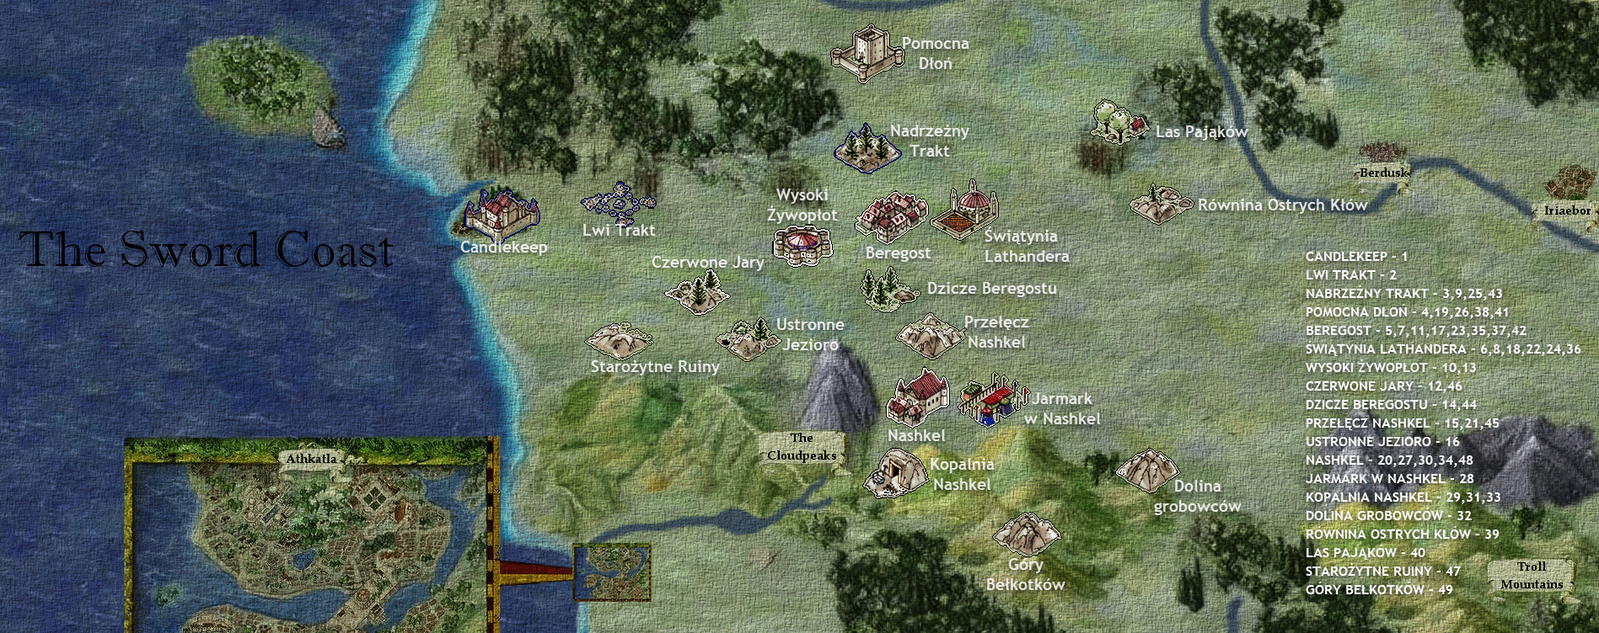
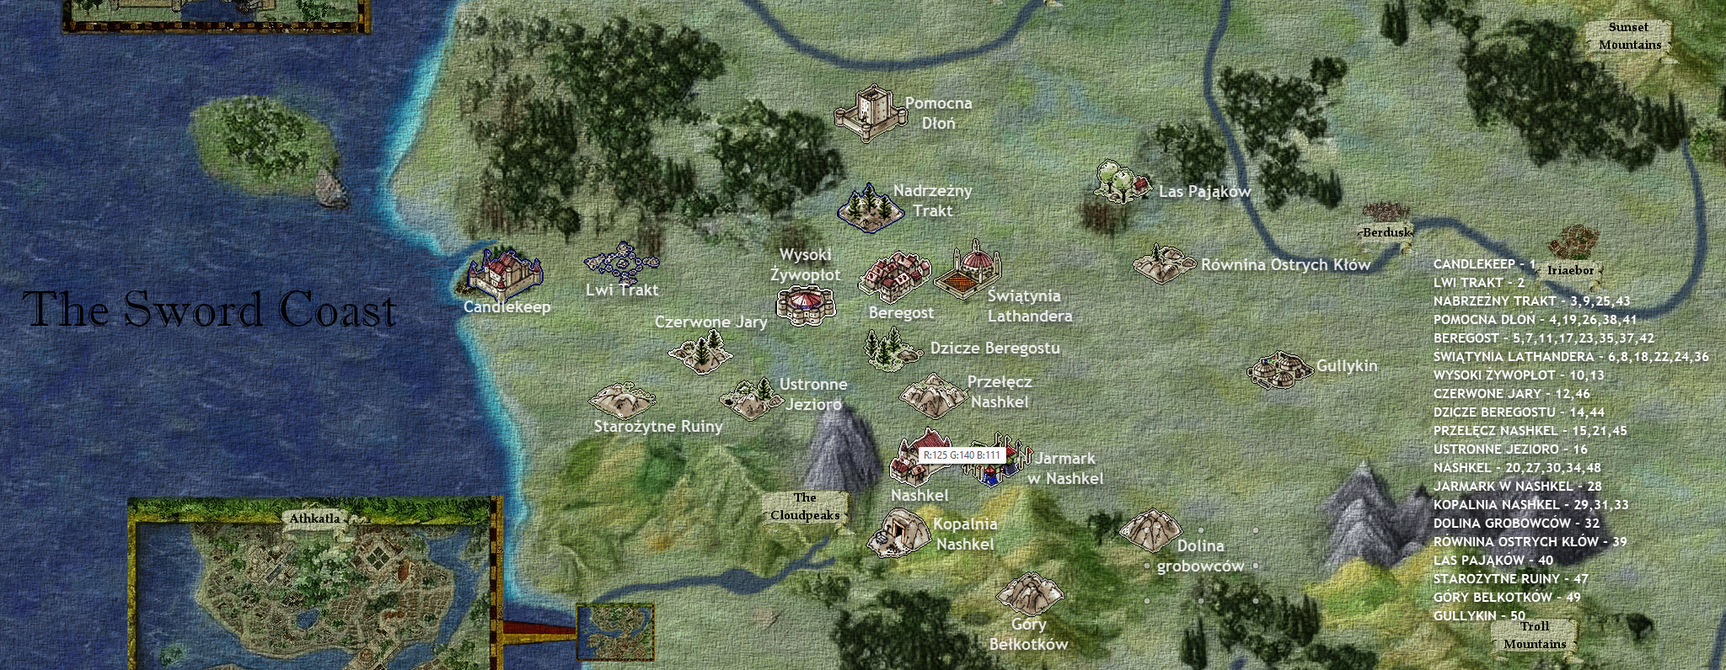
new file:   docs/images/cvorca.webp 	new file:   docs/images/dream3.webp 	new file:   docs/images/inoshishi1.webp 	new file:   docs/images/kryll.webp 	new file:   docs/maps/BG4000.webp 	modified:   docs/maps/BG5500.webp 	modified:   docs/maps/worldmap.webp 	modified:   docs/other/maps.md 	modified: 
Changes not staged for commit:
	modified:   docs/maps/BG4000.webp
	modified:   docs/maps/worldmap.webp
	modified:   docs/other/maps.md
	modified:   docs/other/npc.md
	modified:   docs/other/sklepy.md
	modified:   docs/other/zadania.md
	modified:   docs/storyline/chapter1-5.md
	modified:   docs/storyline/chapter3-3.md

diff --git a/docs/storyline/chapter3-3.md b/docs/storyline/chapter3-3.md
@@ -4,6 +4,136 @@
 
 ![Góry Bełkotków](../maps/BG5500.webp){ .center-img width="40%" }
 
+Hugnot (1) na widok przybyszów zaczął krzyczeć o orkach, lecz szybko dostrzegł pomyłkę i poprosił o ochronę. Imoen ponagliła go, by zamiast stać z otwartymi ustami, opowiedział, co widział. Przez okolicę przemknęło trzydziestu lub więcej orków, wyraźnie w pośpiechu. Na pytanie Sandrah o ludzkiego jeńca Hugnot wspomniał o wielkim worku, rozmiarami przypominającym człowieka. Nie wiedział jednak, co znajdowało się w środku — uciekł, nie mając ani okazji, ani ochoty zaglądać.
+
+Orkowie ruszyli na północny wschód, ku wiosce niziołków Gullykin. Przy takim tempie mogli dotrzeć tam jeszcze przed świtem. Sandrah zauważyła, że droga ta nie prowadziła do Lasu Otulisko, lecz Hugnot był pewien kierunku. Na rozwidleniu napastnicy zatrzymali się, krzyczeli i kłócili tak zaciekle, że niemal liczył, iż pozabijają się nawzajem. Ostatecznie wybrali jednak inną drogę. Leech uznał, że bez kogoś, kto pokierowałby nimi z odrobiną rozsądku, mogli zwyczajnie pomylić szlak. Pozostawało pytanie, czego szukali w osadzie niziołków. (The Kidnapping of Henning 91)
+
+Dorn uznał, że nieumarli rzadko powstawali bez cudzej pomocy, a wszystko wokół zdradzało rękę Kryll. Ostrzegł Leecha, że czaiła się gdzieś w pobliżu. Od miesięcy myślał niemal wyłącznie o zemście na dawnych zdrajcach, a nowe moce tylko podsycały tę żądzę. Zapytany o ich źródło przyznał, że zawarł układ i przyjął pewne warunki. Na tym jednak zakończył wyjaśnienia.
+
+Kryll zastali w otoczeniu uwiedzionych mężczyzn (2). Dorn wypomniał jej, że niegdyś uważał ją za jedyną osobę, która potrafiła spojrzeć poza jego półorczą krew. Teraz widział, jak bardzo się pomylił. Wspomniał też o Senjaku, którym już się zajął. Kryll odparła, że ktoś musiał wziąć na siebie winę, aby odwrócić podejrzenia od reszty, a wybór padł na niego za sprawą Simmeona. Próbowała zbyć zemstę jako małostkowość, lecz Dorn nie zamierzał wybaczyć pozostawienia go na śmierć w Luskan. Kryll zamieniła otaczających ją mężczyzn w szkielety i posłała je przeciw drużynie. Nie ocaliły swojej pani.
+
+Po śmierci Kryll przy jej ciele znaleźli list od Simmeona. Nadawca przepraszał za gwałtowne zachowanie podczas ostatniego rozstania i ostrzegał, że Dorn uciekł z więzienia w Luskan, po czym zaczął zabijać dawnych kompanów. Zapewniał, że zdobył potężnego sprzymierzeńca, i zapraszał adresatów do ukrytego obozu tuż przed wejściem do Wrót Baldura. Liczył, że wspólnie łatwiej stawią czoło mścicielowi, który właśnie przeczesywał wybrzeże.
+
+Dorn zażądał listu, a poznawszy kryjówkę Simmeona, natychmiast chciał ruszać w drogę. Leech przypomniał, że ostrzeżony przeciwnik mógł przygotować pułapkę, lecz półork nie zamierzał zwalniać. Wierzył, że wymknie się każdej zasadzce i pokona każdą przeszkodę. Ufał własnej sile bardziej niż słowom zabitych zdrajców, choć przeczuwał, że wzmianka o potężnym sprzymierzeńcu była prawdziwa. Leech zauważył, że ostrożność najwyraźniej przestała mu towarzyszyć, i zaproponował dalszą podróż. Simmeon nie miał im uciec. (Dorn Il-Khan A Blackguard's Revennge 92). Powinni także odwiedzić Taris i poinformować ją co się stało z jej głupim mężem.
+
+![](../images/kryll.webp){ .center-img width="50%" }
+
+W kotlinie odnajdujemy Deneb (3). Deneb otaczały węże, które strzegły jej niczym wierne dzieci. Na widok drużyny zapowiedziała im kolejną ucztę, uznając przybyszów za złodziei. Leech zapytał, czy poprzedni intruzi również szukali Kerykeionu, lecz zamiast odpowiedzi usłyszał oskarżenia i wzmiankę o łotrzykach tańczących w świetle księżyca. Deneb chełpiła się, że kolejna marionetka padła ofiarą jej mocy. Gdy gnom zapytał o wspomniane węże, odróżniając je od bełkotków, Deneb oznajmiła, że ona i jej podopieczni stanowili jedno, a wraz z nadejściem ciemności znów powstawali. Leech uznał, że nie sposób przemówić jej do rozsądku. Czarodziejka zagroziła, że ani ucieczka, ani walka nie zmienią losu przybyszów — jej węże miały pożywić się ich zwłokami. Przywołała „Mroczną Siostrę”, prosząc o siłę. (Sorceress of Shadows 43). BAldwim bedzie rad z odzyskanego artefaktu.
+
+Lena (4) błagała nas o pomoc jej nieprzytomnemu przyjacielowi Samuelowi. Chce, żebyśmy zabrali go do Gellany w Pomocnej Dłoni. Niosąc go zostaliśmy napadnięci przez dezerterów (5), twierdzących, że ich zdradził (Samuel and Lena 94)(Lena zatrzymała Leecha i poprosiła o pomoc. Od ponad tygodnia błąkała się po dziczy, szukając kogoś, kto zdołałby uratować jej ciężko rannego przyjaciela. Samuel leżał nieopodal, a jego stan był tak poważny, że nawet Finch nie potrafiła mu pomóc. Jedyną nadzieją pozostawała Gellana Mirrorshade ze Świątyni Mądrości w Pomocnej Dłoni. Lena poprosiła, by drużyna ostrożnie podniosła Samuela i bez zwłoki zaniosła go do kapłanki. Leech zgodził się pomóc, a wdzięczna kobieta raz jeszcze przestrzegła, że rannemu pozostało niewiele czasu.)
+
+Samuel odzyskał na chwilę przytomność i wyjawił, że Angelo Dosan z płomiennej Pięści zaprzedał się Żelaznemu Tronowi (Zgiełk walki przywrócił Samuelowi świadomość. Sandrah natychmiast rzuciła proste zaklęcie, by choć trochę złagodzić ból rannego. Gdy odzyskał głos, zapytał o Lenę i miejsce, do którego trafili. Kapłanka zapewniła go, że Lena była bezpieczna, a drużyna zamierzała jak najszybciej dostarczyć go do Świątyni Mądrości. Samuel ostrzegł jednak, że nic nie będzie dobrze, dopóki okolicą rządziła Płonąca Pięść. Sandrah nakazała mu zachować spokój, by rany ponownie się nie otworzyły. Finch zaproponowała rzucenie kolejnego zaklęcia, żartując, że podczas długiej drogi chory mógłby zaczepiać każdego napotkanego bandytę. Kapłanka wyjaśniła, że w warunkach polowych zrobiła już wszystko, co było możliwe. Samuel potrzebował świątyni, odpoczynku i odpowiedniej opieki. Zanim opadł z sił, zdążył przestrzec drużynę przed Płonącą Pięścią. Twierdził, że formacja przestała strzec prawa i porządku, odkąd Angelo Dosan oddał ją na służbę Żelaznemu Tronowi. Sandrah powstrzymała go przed dalszym mówieniem i zesłała na niego sen. Ostatnie słowa Samuela były kolejnym ostrzeżeniem przed zdrajcami).
+
+Przy samotnym szczycie (6) zatrzymał drużynę Hafiz, prosząc o chwilę rozmowy w niezwykle ważnej sprawie. Gdy odzyskał oddech, przedstawił się jako Hafiz bin Watat, astrolog, uczony i mag. Usłyszawszy imię Leecha, natychmiast je rozpoznał. Twarz młodego gnoma wielokrotnie pojawiała się w jego snach, zawsze pośród krwi i śmierci. Nad Leechiem pochylał się złowrogi człowiek, a ich losy nieuchronnie splatały się ze śmiercią jednego z nich. Leech wyjaśnił, że wychował się w Candlekeep u boku Goriona, lecz po ucieczce z twierdzy jego przybrany ojciec został zamordowany. Od tamtej pory ktoś nieustannie próbował również pozbawić życia młodego gnoma. Hafiz przeprosił za przywołanie bolesnych wspomnień. Pragnął jednak pomóc, a zarazem uwolnić się od nękających go wizji. Astrolog przekazał Leechowi zwój ochronny. Polecił użyć go podczas starcia z ośmioma sługami zabójcy Goriona, aby osłonić drużynę przed ich gniewem. Finch z uznaniem przyjęła ten bezinteresowny dar. Nie wszyscy czyhali na życie Leecha. Gdzieś po jego stronie stali również życzliwi sprzymierzeńcy.
+
+W trakcie podróży Jen’lig zapytała Sandrah, czy jest g’lathk. Kapłanka nie znała tego określenia, więc githyanki wyjaśniła, że g’lathk zajmowali się uzdrawianiem mieszkańców Tu’narath. W głębi miasta pielęgnowali hydroponiczne ogrody, a rannych zabierali do komnat wyposażonych w regeneracyjne kapsuły, które przyspieszały naturalne gojenie. Sandrah odparła, że dzięki Splotowi nie potrzebowała bogów, by czerpać ze źródła magii, choć tam, gdzie mogła, sama również korzystała z naturalnych metod leczenia. Chętnie dowiedziałaby się więcej o technikach stosowanych przez g’lathk. Jen’lig przyznała, że nie potrafiła dokładnie wyjaśnić swojej roli, lecz uważała się za pewien szczególny rodzaj g’lathk. Sandrah nazwała ją strażniczką i łowczynią złodziei. Githyanki uznała to określenie za trafne, zaznaczyła jednak, że dzieci Gith nigdy nie były złodziejami. Ściganie własnych wrogów na ich sposób pozostawało dla niej czymś zupełnie nowym.
+
+
+Kawałek dalej (7) drogę zagrodził im kolejny najemnik Płonącej Pięści, żądając, by natychmiast się przedstawili. Sandrah oznajmiła, że byli jedynie wędrowcami. Strażnik ostrzegł ich przed bandytami grasującymi w okolicy, po czym wyjawił, że poszukiwał dezertera imieniem Samuel. Zbieg miał podróżować z kobietą, a za jego schwytanie wyznaczono nagrodę w wysokości pięćdziesięciu sztuk złota.
+Najemnik zdążył już odejść, gdy nagle zainteresował się niesionym przez drużynę rannym. Sandrah zachowała zimną krew i odparła, że był to jeden z ich towarzyszy, który ucierpiał podczas drogi. Wyjaśnienie wystarczyło. Członek Płonącej Pięści pożegnał wędrowców i ruszył dalej, nieświadomy, że poszukiwany Samuel znajdował się tuż przed nim.
+
+Stan Samuela nie był krytyczny i uznaliśmy, że musimy sprawdzić trop w Gullykin.
+
+Bestiariusz: niedźwiedziożuk, szkielet, dzik, bełkotek, wąż, niedźwiedź jaskiniowy, straszny wilk, straszliwy wilk
+
+## Gullykin&nbsp;<span class="cb">50</span> { .divider }
+
+![Gullykin](../maps/BG4000.webp){ .center-img width="40%" }
+
+W Gullykin przywitał ich Gandolar Luckyfoot (1), który z miejsca zapytał, czy zmierzali ku Wieży Durlaga, czy może już z niej wracali i potrzebowali opatrzenia złamań oraz siniaków. Jak zauważył, wielu poszukiwaczy przygód docierało do osady ledwie żywych.
+
+Leech zapytał o dużą grupę orków, która mogła niedawno przechodzić przez okolicę. Gandolar udał, że nie rozumie pytania, lecz Imoen szybko straciła cierpliwość do jego gry. Niziołek przyznał w końcu, że orkowie zwykle nie zapuszczali się w te strony. Imoen uznała więc, że dalsza rozmowa była stratą czasu, zwłaszcza gdy Henning wciąż czekał na ratunek. Gandolar zdążył jednak wspomnieć o osobliwych odgłosach dobiegających jakiś czas temu z sadów owocowych na południe od wioski. Jego przyjaciel Telben miał udać się tam na zwiad. To wystarczyło Imoen. Ponagliła Leecha, by przestał stać z otwartymi ustami, i poprowadziła drużynę ku sadom.
+
+Szukając ogrodnika spotykamy małą grupkę koboldów (2) a przy nich pierścień o dziwnej mocy.
+
+Dalej znajdujemy wołąjącego o pomoc niziołka (3). Po odzyskaniu sił Telben Beeswaxer wyjaśnił, że natknął się na ogromną hordę orków, gdy szukał uli pośród drzew. Napastnicy początkowo go nie zauważyli, zajęci kłótnią o jeńca. Na wzmiankę o pojmanym Imoen natychmiast domyśliła się, że chodziło o Henninga. Telben potwierdził, że kupiec żył i mimo trudnego położenia nie tracił ducha. Podczas gdy część orków chciała go zabić i zagarnąć łupy ukryte w pobliskiej jaskini, pozostali obawiali się człowieka imieniem Devern. Zamierzali dostarczyć mu zakładnika, zgodnie z otrzymanym rozkazem. Sandrah uznała to nazwisko za kolejny ślad w rozrastającym się spisku. Kłótnia orków zakończyła się dla Telbena boleśnie. Kilku napastników oparło się o drzewo, na którym się ukrywał, strącając go wprost pod swoje stopy. Z ich wrzasków wywnioskował, że zgubili drogę do Lasu Otulisko i przypadkiem trafili w okolice Gullykin. Wiedzieli o tajnej kwaterze ukrytej w jednej z pobliskich jaskiń, gdzie część z nich chciała schronić się z łupami. Obawiali się również oddziału prowadzonego przez gnoma i jego towarzyszy. Telben nie miał wątpliwości, że mówili o Leechu. Orkowie próbowali zmusić niziołka do wskazania drogi do Lasu Otulisko. Gdy nawet tortury nie przyniosły odpowiedzi, związali go i porzucili obok Henninga. Kupiec wykorzystał chwilę, by opowiedzieć o swoim porwaniu. Był przekonany, że Imoen ruszy jego tropem. Na dowód, że żył i nie zamierzał się poddać, zsunął z palca pierścień i poprosił Telbena o przekazanie go drużynie. Ostatecznie dwaj orkowi przywódcy podzielili hordę. Większa grupa zabrała Henninga i ruszyła na północ, gdzie miała spotkać się z Tazokiem oraz zdobyć informacje o drodze do Lasu Otulisko. Mniejszy oddział powędrował na wschód, ku jaskini skrywającej łupy. Ponieważ ani droga do lasu, ani rola Deverna nie były jeszcze znane, drużyna postanowiła najpierw odwiedzić kryjówkę orków i siłą wydobyć z nich kolejne odpowiedzi. Telben zaznaczył położenie jaskiń na mapie i poprosił, by przekazać napastnikom jego najserdeczniejsze pozdrowienia podczas przesłuchania.
+
+Spotykamy kolejnych łowców głów (4). Tym razem Molkar, Drakar, Morvin i Halacan nie przywitają kolejnego poranka.
+
+Znajdujemy jaskinię w której skrył się oddział orków (5). W środku silna grupa orków wszelkiej maści, zwłaszcza magów przywołujących żywiołaki ziemi i powietrzne sługi. Wybijamy wszystkie i natykamy się na Rellruka. Rellruk spodziewał się, że Rudowłosa w końcu go odnajdzie. Imoen nie kryła satysfakcji, że przy okazji mogła rozprawić się z orkowym hersztem, lecz najpierw zażądała informacji o Henningu. Ork wyjawił, że jego zwierzchnik, Knowlod, zatrzymał jeńca i zamierzał dostarczyć go Davaeornowi. Imoen zagroziła Rellrukowi powolną i bolesną śmiercią, lecz Leech powstrzymał ją przed zbyt pochopnym zabiciem więźnia. Zamierzał wydobyć z orka wszystko, co wiedział o Davaeornie, i dopiero później rozstrzygnąć jego los. Rellruk nie uląkł się gróźb. Twierdził, że znosił tortury przez całe życie i nawet gdyby znał drogę do Davaeorna, wolałby umrzeć, niż ją zdradzić. Sandrah zauważyła jednak, że skoro orkowie mieli dostarczyć jeńca Davaeornowi, musieli wiedzieć, gdzie go szukać. Rellruk przyznał, że Knowlod zamierzał odnaleźć kopalnię w Lesie Otulisko bez pomocy Tazoka, choć tylko Tazok znał prowadzącą do niej drogę. Chciwy Knowlod nie chciał dzielić się z nim nagrodą. Drużyna poznała więc kolejne ogniwo spisku, lecz łańcuch prowadzący ku jego prawdziwym mocodawcom zdawał się nie mieć końca. Rellruk chełpił się, że jedynie on wiedział, gdzie znaleźć Tazoka. Imoen szybko pozbawiła go tej ostatniej przewagi, przypominając, że droga do obozu bandytów była im już znana. Sandrah dostrzegła słabość całej organizacji. Każdy znał tylko bezpośredniego przełożonego, co utrudniało zdradę, lecz pozwalało drużynie rozbijać spisek ogniwo po ogniwie. Wróg mógł długo nie reagować na ich działania, a kiedy wreszcie odkryje, jak daleko zaszli, zabraknie mu już solidnego oparcia. Imoen przyjęła tę myśl z ponurym zadowoleniem. Gdy zostanie sam, zapłaci za wszystko, a za porwanie Henninga zapłaci jeszcze raz (The Kidnapping of Henning 91).
+
+![](../images/cvorca.webp){ .center-img width="50%" }
+
+Sandrah zatrzymała drużynę i zaczęła przeglądać swoją wszechwiedzącą księgę. Przypomniała, że jej ojciec zgromadził rozległą wiedzę o Wybrzeżu Mieczy, dlatego na stronach tomu mogła znajdować się mapa Lasu Otulisko. Kapłanka szybko ostudziła jednak nadzieje Imoen. Dawne kopalnie w Lesie Otulisko należały niegdyś do krasnoludów, którzy nawet w czasach ich świetności utrzymywali dokładne położenie w tajemnicy przed obcymi klanami. Od tamtej pory minęło wiele lat, a miejsce niemal zupełnie zniknęło z pamięci mieszkańców krainy. Krasnoludy kopały coraz głębiej, aż pewnego dnia naruszyły podziemną rzekę lub zbiornik wodny. Kopalnię zalała woda, grzebiąc wielu górników. W kolejnych latach kilkukrotnie próbowano dostać się do podziemnego kompleksu, lecz wszystkie wyprawy zakończyły się niepowodzeniem. Wraz z upływem czasu zanikły także ostatnie wskazówki dotyczące jego położenia. Leech przypomniał, że Las Otulisko zajmował niemal czwartą część Wybrzeża Mieczy. Nie prowadziły przez niego osady ani prawdziwe drogi, a jedynie ścieżki wydeptane wśród ponurych ruin. Sandrah dodała do tego olbrzymie pająki i wiwerny. Żadne z tych zagrożeń nie mogło jednak powstrzymać drużyny przed uratowaniem Henninga i pokrzyżowaniem planów wroga. Imoen podsumowała sytuację bez zbędnych subtelności: musieli znaleźć igłę w stogu siana wielkości całego Lasu Otulisko. Sandrah zauważyła jednak, że mimo zdobytych informacji ich najbliższym celem nadal pozostawali Tazok i obóz bandytów.
+
+Odpoczywając po walce Sandrah zapytała Finch, czy chciałaby przyjrzeć się jej księdze z bliska. Kronikarka skwapliwie przyjęła propozycję. Tom robił imponujące wrażenie, a możliwość jego studiowania wydawała się jeszcze bardziej kusząca, o ile Leech pozwoliłby jej poświęcić na to dość czasu. Kapłanka wyjaśniła, że otrzymała księgę od ojca. Była dla niej bezcenna nie tylko ze względu na zawartą w niej wiedzę, lecz także dlatego, że wielokrotnie pomagała jej podczas pełnego przygód życia. Finch z zachwytem rozpoznała Historię Faerûnu Elminstera, opatrzoną osobistym podpisem samego autora. Sandrah przypomniała jednak, że autor był jej ojcem, dlatego jego dzieło miało dla niej znaczenie inne niż dla nauczycielki czy badaczki. Księga stanowiła dziedzictwo, które ojciec przekazał jej na dalszą drogę. Elminster spisał w niej wiedzę zgromadzoną podczas długich lat wędrówek po Krainach, aby ocalić ją od zapomnienia. Nie tworzył jej jednak wyłącznie z myślą o córce. Pisząc kolejne fragmenty, często wyobrażał sobie Sandrah siedzącą na jego kolanach i słuchającą opowieści o przeżytych przez niego przygodach. Te wspomnienia pozostały dla kapłanki równie cenne jak sama zawartość tomu. Dopiero później Elminster uznał, że wiedza przydatna jego córce może przysłużyć się również innym, i polecił wydać księgę w Waterdeep. Finch zauważyła jednak, że niewielu mogło sobie pozwolić na jej astronomiczną cenę. Sandrah nie obwiniała o to ojca. Tak działała gospodarka, a większość mieszkańców Faerûnu nie potrzebowała całej wiedzy zawartej w opasłym tomie. Ci zaś, którym mogłaby się przydać, często nie potrafili nawet czytać. Finch natychmiast wykorzystała te słowa jako potwierdzenie wagi własnej misji. Zamierzała nieść światło wiedzy zwykłym ludziom, ucząc ich czytać i pozwalając im czerpać z tego, co inni poznali i zapisali.
+
+Opuszczamy jaskinię zmęczeni i rozumiejąc, że musimy póki co odpuścić sobie to miejsce i wrócić z Samuelem do Pomocnej Dłoni i znaleźć Henninga. Po drodze zajrzymy do Beregost.
+
+Bestiariusz: kobold, worg, powietrzny sługa, żywiołak ziemi, ethercap, orog, ork, ork łucznik, ork kapłan, ork mag, hobgoblin czempion 
+
+## Pomocna Dłoń&nbsp;<span class="cb">51</span> { .divider }
+
+![Pomocna Dłoń](../maps/BG2300.webp){ .center-img width="40%" }
+
+Churin (16) uznał, że po uratowaniu Brage'a jesteśmy już doświadczonymi poszukiwaczami przygód, a właśnie takich ludzi miał odnaleźć. Przekazał drużynie, że Easthaven poszukiwało śmiałków i najemników gotowych podjąć się zadania obiecującego bogactwo oraz sławę. Leech przypomniał sobie, że Easthaven leżało w Dolinie Lodowego Wichru. Churin potwierdził, że w regionie pojawiły się niepokojące wydarzenia, a sąsiednia osada Kuldahar zwróciła się o pomoc. Aby dotrzeć na miejsce, drużyna musiała wyruszyć daleko na północ, podążać wzdłuż Górnego Chiontharu, a następnie kontynuować drogę ku mroźnym krainom. Churin poradził, by przed wyprawą skontaktowali się z jego przyjacielem Maladernothiem, przebywającym w Ulgoth’s Beard. Życząc wędrowcom powodzenia, pozostawił im decyzję, czy podejmą się dalekiej podróży.
+
+W świątyni (6) chcemy przekazujemy Samuela Gallenie za co wzrasta nam reputacja (Samuel and Lena 93). Reputacja +1.
+
+Po odzyskaniu amuletu Inoshishi poprosił Gellanę Mirrorshade o pomoc w odnalezieniu utraconych fragmentów Saiai no Hito. Kapłanka przyjrzała się przedmiotowi i zdołała dostrzec krótkie obrazy miejsc, w których spoczywały części miecza. Pierwsza wizja ukazała jej wysoką wieżę z jasnym światłem na szczycie. Wokół szumiała woda, a w oddali rozbrzmiewały głosy. Nie potrafiła rozstrzygnąć, czy należały do duchów, czy do żywych ludzi, lecz wszystko wskazywało na latarnię morską. 
+Drugi obraz był znacznie bardziej niepokojący. Kolejny fragment został połknięty przez ogromne stworzenie. Choć ostrze prawdopodobnie przecięło jego wnętrzności, bestia nadal żyła, jakby potrafiła regenerować rany lub opierać się obrażeniom zadawanym od środka. Przebywała wśród skał i piasku, w suchym, kamienistym miejscu.
+
+![](../images/inoshishi1.webp){ .center-img width="50%" }
+
+Gellana nie zdołała zobaczyć niczego więcej. Inoshishi uznał jednak, że zdobyte wskazówki wystarczą, by rozpocząć poszukiwania. Zamierzał przestudiować mapy, a drużynę poprosił, by podczas dalszych wędrówek wypatrywała latarni morskich oraz miejsc odpowiadających opisowi suchego, skalistego pustkowia. Leech zapewnił, że nie zamierzał jeszcze opuszczać przyjaciela i powiadomi go natychmiast po odnalezieniu fragmentów miecza. (Restoring Saiai no Hito 89)
+
+Dorn uznał, że jesteśmy zbyt słodką zbieraniną i póki co będzie czekał na jakąs odmianę w gospodzie. Póki co niech sobie odpocznie a my zabieramy Neerę.
+
+Neera przywitała Leecha z udawanym wyrzutem, że kazał jej samotnie przebyć całą drogę. Szybko jednak porzuciła pretensje i zgodziła się ponownie dołączyć do drużyny. Po chwili poprosiła go również o pomoc w bardziej osobistej sprawie. Choć początkowo uciekła przestraszona skutkami własnej magii, z czasem zaczęła szukać sposobu na ograniczenie jej nieprzewidywalnych następstw. Każde zaklęcie mogło wymknąć się spod kontroli, a Neera wciąż pamiętała incydent, podczas którego poraziła Enith i pozbawiła ją włosów. Porównała dziką magię do gry na flecie ze słuchu. Zwykle potrafiła wydobyć z instrumentu całkiem przyjemną melodię, lecz jeden fałszywy dźwięk wystarczał, by flet zaczął miotać ogniem we wszystkich kierunkach. Czasami zaś sam flet zamieniał się w chomika. Neera słyszała o dzikim magu imieniem Adoy, który od wielu lat żył na odludziu. Uznała, że ktoś tak doświadczony mógłby nauczyć ją lepiej panować nad nieujarzmioną mocą. Ostatnio widziano go na wschód od Mostu Firewine, dlatego poprosiła Leecha, by podczas podróży pomógł jej go odnaleźć. Leech zgodził się przyjrzeć sprawie, jeśli droga zaprowadzi drużynę w tamte strony. Neera przypomniała mu jednak, że poszukiwanie nauczyciela było czymś więcej niż wyprawą po nową sztuczkę. Liczyła, że Adoy pomoże jej uniknąć kolejnych porażeń, trwałej łysiny oraz innych niebezpiecznych kaprysów dzikiej magii.
+
+Czas zakończyć parę spraw w Beregoście.
+
+:material-account-group: Odłączeni NPC: Dorn (Pomocna Dłoń)
+
+:material-account-group: Odłączeni NPC: Neera
+
+## Beregost&nbsp;<span class="cb">52</span> { .divider }
+
+![Beregost](../maps/BG3300.webp){ .center-img width="40%" }
+
+W kużni (23) Taerom Fuiruim powitał Leecha wieścią, że udało się znaleźć sposób na zneutralizowanie tajemniczego zanieczyszczenia. Płatnerz wypróbował już opracowaną metodę na własnych zapasach żelaza, a gdy tylko upewni się, że rzeczywiście działała, zamierzał przesłać wyniki badań do Nashkel. Tymczasem zachęcił Leecha, by obejrzał przygotowany przez niego przedmiot. Zdaniem Taeroma prezentował się teraz znacznie lepiej niż wcześniej. (Vial of Mysterious Liquid 84)
+
+U Feldeposta (14) Illasera natychmiast wyczuła klątwę ciążącą na mieczu hobgoblińskiego kapitana. Rozpoznała zaklęcie zguby i potwierdziła, że Leech przyniósł właściwą broń. Pozwoliła mu zatrzymać Humanbane, zauważając, że choć oręż był niezgrabny, wyglądał jak przedmiot o bogatej i krwawej przeszłości. Zgodnie z umową wypłaciła też pełne wynagrodzenie. Leech przyznał, że polowanie sprawiło mu więcej przyjemności, niż się spodziewał, i zapytał o kolejne zlecenie. Illasera odparła, że życie łowcy najwyraźniej mu służyło. Nowy kontrakt pojawił się jeszcze podczas jego wyprawy przeciw hobgoblinom.
+
+Choć drużyna oczyściła kopalnie Nashkel z koboldów, nekromanta imieniem Sazazir uznał opuszczone podziemia za doskonałe legowisko. Głębokie, wilgotne korytarze przyciągały najgorszych przedstawicieli jego profesji, a ciała górników poległych podczas koboldziej okupacji stanowiły gotową armię dla kogoś parającego się mroczną sztuką. Leech zauważył, że w kopalni cuchnęło wystarczająco mocno jeszcze przed pojawieniem się nekromanty. Illasera poradziła mu więc zaopatrzyć się w klamrę na nos, ponieważ podobni czarodzieje chętnie wykorzystywali odór przeciw wrogom. Zlecenie pochodziło od władz Nashkel. Burmistrz Ghastkill chciał, by sprawę załatwiono po cichu, zanim górnicy dowiedzą się, że niższe poziomy kopalni ponownie znalazły się w rękach potworów. Nie zamierzał wysyłać przeciw nekromancie niedoświadczonych żołnierzy, wiedząc, że byłoby to jedynie dostarczeniem mu kolejnych ciał do powiększenia armii. Potrzebował więc niewielkiej grupy odpowiednio wyszkolonych ludzi. Sazazir był dawnym kultystą z południa, który popadł w konflikt z Harfiarzami i kilka lat wcześniej został wypędzony na północ. Zyskał opinię wędrownego maga i wyrzutka, któremu odmawiano wstępu do niemal każdego miasta. Illasera podejrzewała, że nekromanta miał już dość tułaczki i postanowił wykorzystać kopalnie jako pierwszy krok ku zdobyciu wpływów w regionie. Za zgładzenie Sazazira wyznaczono nagrodę w wysokości sześciuset czterdziestu sztuk złota. Była skromniejsza niż zapłata za poprzednie oczyszczenie kopalni, ponieważ ciągłe ratowanie Nashkel nadwyrężyło już sakiewkę burmistrza. Illasera poinformowała również, że nekromanta zajmował środkowe poziomy kompleksu, na których nie wznowiono jeszcze pracy. Nieumarli nie dotarli dotąd do wyżej położonych części kopalni, lecz drużyna musiała interweniować, zanim Sazazir zgromadzi całe wojsko. Na znak przyjęcia kontraktu łowczyni przekazała Leechowi księgę zaklęć Sazazira. Pozostało wrócić do cuchnących podziemi i zadbać, by nekromanta nie zdążył dokończyć swoich planów (Black Hearts - The Huntress 87).
+
+Na piętrze odnaleźliśmy Tranziga próbował odprawić drużynę, tłumacząc, że spieszył się z opuszczeniem miasta. Leech zażądał wyjaśnień, lecz mag nie zamierzał odpowiadać i nakazał przybyszom zejść mu z drogi. Młody gnom nie dał się jednak zbyć. Wiedział, że Tranzig miał coś na sumieniu, i zażądał, by wyjawił wszystko, co wiedział. Mag przyznał, że rzeczywiście prowadził podejrzane interesy, po czym zagroził, że jeśli drużyna nie zniknie mu z oczu w ciągu pięciu sekund, rozniesie ją w pył. Leech zauważył, że grożenie magią nie poprawiło jego położenia. Nakazał Tranzigowi poddać się i ruszyć z nimi, ostrzegając, że w przeciwnym razie wyciągną go siłą. Mag uznał jednak, że ostrzegał ich wystarczająco długo, i przeszedł do ataku. 
+
+Przy ciele znaleziono list, który Tazok skierował do Tranziga. Herszt wyrażał zaniepokojenie przedłużającym się milczeniem Mulaheya i nakazywał magowi udać się do kopalni, by sprawdzić stan operacji. Polecił mu również odzyskać żelazo, które mogły ukraść koboldy. Zapowiadał, że następny napad najprawdopodobniej dosięgnie Peldvale albo Knieji Larsa, dlatego Tranzig miał odwiedzić oba miejsca, odnaleźć bandytów i sprowadzić ich z powrotem do obozu (Confronting Tranzig 82).
+
+Udajemy się do Oka Gorgony (29) gdzie **Baldwin z podziwem przyjął odłamek Kerykeionu, artefaktu, o którym słuchał opowieści jeszcze jako dziecko. Nawet roztrzaskany emanował potęgą i obietnicą władzy będącej zaledwie nikłym odbiciem pełnych możliwości relikwii. Poprosił Leecha o dokładne przedstawienie całego spotkania, gdyż opowieść miała dotrzeć do samego oka Cyklopa. Leech opowiedział, że podczas walki czarodziejka przywoływała węże z pustego powietrza, jakby sam Kerykeion poddawał się jej woli. Baldwin rozpoznał w tym rzadki dar przypisywany potomkom Gorgon, świadczący o głębokim związku z Wężowymi Siostrami. Deneb musiała pozostawać w niezwykle silnej, choć niebezpiecznej więzi z artefaktem. Czarodziejka sprawiała jednak wrażenie niestabilnej, jakby wpływ Kerykeionu stopniowo pochłaniał jej umysł. Zdaniem Baldwina potężne relikwie wymagały od właściciela nie tylko talentu magicznego, lecz także niezłomnej siły ducha. Deneb nie zdołała oprzeć się narastającym cieniom i zamiast zapanować nad mocą artefaktu, sama padła jej ofiarą. Taki los czekał każdego, kto sięgał po podobną potęgę, nie rozumiejąc ceny, jakiej mogła zażądać. 
+
+Leech wspomniał również o innych łotrach, którzy próbowali odebrać czarodziejce Kerykeion. Ta wiadomość zaniepokoiła Baldwina. Skoro obcy wiedzieli o relikwii oraz prowadzonych poszukiwaniach, ktoś mógł zdradzić szczegóły całej operacji. Nie było wiadomo, czy napastników przyciągnęła jedynie moc artefaktu, czy też za ich działaniami krył się większy i lepiej zorganizowany plan. Gdy Leech zakończył sprawozdanie, Baldwin ostrzegł go przed obecnością wyczuwalną ostatnio w mieście. Ktoś obcy obserwował ich działania i próbował poznać zgromadzoną wiedzę o Kerykeionie. Baldwin zamierzał wysłać szpiegów, by zbadali sprawę, a Leechowi nakazał zachować szczególną ostrożność, zwłaszcza podczas pobytu w mieście. Na tym zakończył spotkanie, zapowiadając, że ponownie wezwie młodego gnoma, gdy nadejdzie właściwa pora. (Sorceress of Shadows 43)
+
+Rigaldo powitał Leecha kolejną opowieścią, w której los, cień i fortuna jak zwykle splatały się w jedną, niezbyt przejrzystą całość. Tym razem wieści prowadziły na południe od Nashkel, gdzie wśród pól należących do miejscowego gospodarza kobieta imieniem Karp odnalazła dwa pierścienie o magicznej naturze. Klejnoty były przeznaczone dla kupca z Ulgoth’s Beard, który właśnie zmierzał po odbiór zamówienia. Karp nie ograniczała się jednak do uczciwego handlu. Chętniej korzystała z usług paserów i ludzi pokroju Rigalda, a swoje znalezisko ukrywała nawet przed małżonkiem. Leech mógł wykorzystać ten sekret jako narzędzie nacisku, podszyć się pod oczekiwanego kupca albo sięgnąć po mniej subtelne metody. Najważniejsze było, by przejął pierścienie, zanim rozpłyną się na targowiskach. 
+Leech uznał, że najskuteczniejszą bronią będzie strach. Zamierzał rzucić na Karp cień groźby na tyle mroczny, by skłonić ją do oddania klejnotów. Rigaldo pozostawił wybór metody młodemu gnomowi, przypominając jedynie, że prawdziwa sztuka nie tkwiła w samym czynie, lecz w jego dyskretnym wykonaniu i następstwach. Jeśli Leech zdobędzie oba pierścienie, jeden miał przekazać Rigaldowi, drugi zaś zachować jako zapłatę. Zleceniodawca przestrzegł go, by działał ostrożnie. Droga została wyznaczona, lecz z ukrycia obserwowało ją wiele nieznanych oczu. (Beneath the Plougshares 94)
+
+Jen’lig przyglądała się swojemu dowódcy z chłodną, taktyczną uwagą, po czym odezwała się swym szorstkim, lekko gardłowym głosem. Wyznała, że pod jego przywództwem wreszcie czuje postęp, a kolejne zwycięstwa dają jej realną nadzieję nie tylko na dopadnięcie mordercy Goriona, ale i odzyskanie utraconego miecza oraz pomszczenie Kastyi. Gdy w rozmowie padły słowa o ciągłym rozlewie krwi i przemocy, githyanki jedynie cicho syknęła. Wyjaśniła chłodno, że krew nie ma dla niej znaczenia – liczą się wyłącznie kompetencje i skuteczność. Metody są obojętne, dopóki przybliżają ich do celu, a jedynym niebezpieczeństwem byłoby zwątpienie dowódcy w sens ich działań lub w jej własną lojalność. Chwilę później jej spojrzenie złagodniało, a z piersi dobiegło ciche westchnienie. Przyznała, że dowódca stał się dla niej kimś ważnym. Choć był jedynie ssakiem, przypomniał jej, że ona sama również jest samicą, mającą własne, czysto biologiczne pragnienia. Gdy mężczyzna spytał z zaskoczeniem, czy zaczyna dostrzegać w nim partnera, wojowniczka ucięła wszelkie nieporozumienia. Wyjaśniła bez ogródek, że w jej kulturze parzenie się służy podtrzymaniu rasy lub czystej przyjemności, a pojęcie ludzkiej miłości jest dla githyanki całkowicie obce. Zaznaczyła jednak, że jej lud nigdy nie łączy się z kimś, kto nie cieszy się szacunkiem i wysokim statusem – a ona zdążyła go głęboko docenić. 
+– Nic teraz nie mów. Pomyśl – podsumowała, zanim zdążył odpowiedzieć. Przypomniała mu, jak wcześniej pytał, czy jest piękna, i z dumą dodała, że pośród swojego ludu należy do niezwykle pożądanych samic i mogłaby wybierać z wielu kandydatów.
+
+Zaglądamy do Wesołego Żonglera aby w końcu porządnie odpocząć przed wyprawą do obozu bandytów.
+
+<div class="dream-box">
+<img src="../../images/dream3.webp" alt="Sen">
+<p class="dream-text"><em>Zwykłe sny z jakiegoś powodu ustąpiły miejsca czemuś zupełnie innemu. Pojawiła się wizja jaskini pokrytej niezwykłymi malowidłami, które zdawały się żyć i pulsować tajemniczą mocą. Ich obecność przenikała umysł, serce i duszę, aż wreszcie obrazy przemieniły się w głos.
+
+Głos zwabił śniącego z powrotem do miejsca widzianego dawno temu, choć nie potrafił on rozstrzygnąć, czy naprawdę chodziło o stanowisko archeologiczne, czy jedynie kolejną sztuczkę własnego umysłu. Sen stawał się coraz wyraźniejszy. Obrazy układały się w słowa, a słowa przemawiały głosem innym niż wszystkie dotąd słyszane.
+
+Wciąż powtarzał jedno wezwanie:<BR>„Wejdź w popiół i śnij to, co niegdyś wyśniono... a potem utracono”.</em></p>
+</div>
+
+Sen wskazywał, że trzeba ponownie odwiedzić Starozytne Ruiny (Dreamheart 95). Jednak teraz udajemy się do Knieji Larsa
+
+## Knieja Larsa&nbsp;<span class="cb">53</span> { .divider }
+
+![Knieja Larsa](../maps/BG2900.webp){ .center-img width="40%" }
+
+Spotykamy Nim’a Furlwinga (1), ocaliliśmy jego psy zaatakowane przez wilki. Następnym razem, niech sam się weźmie za rycerskie rzemiosło – palant. Czeka, jak inni uratują jego psy!
+
+Odnajdujemy trzeci portal (2) z zieloną sferą i sześcioma eterkapami ją pilnującymi. 
+
+Bestiariusz: wilk, straszny wilk, straszliwy wilk, etterkap
+
 
 
 
@@ -11,3 +141,4 @@
 Równina Ostrych kłów
 
 Udało się  odczarować Tamah (9), jedną z ofiar bazyliszków Mutamina. Kobieta pamiętała walkę z gnollami oraz chwilę, w której na jej oczach skamieniał Petr, lecz nie zdawała sobie sprawy, jak długo sama pozostawała uwięziona w kamieniu. Finch wyjaśniła, że mag wykorzystywał oswojone bazyliszki do petryfikowania podróżnych. Wdzięczna za ratunek Tamah podziękowała Leechowi i obiecała dobrze mówić o jego bezinteresownym czynie (Basilisk Pets 49). Reputacja: +1.
+

diff --git a/docs/other/zadania.md b/docs/other/zadania.md
@@ -92,11 +92,37 @@
 |Restoring Saiai no Hito|[Zobacz szczegóły](#q-89)|
 |Warded Dungeon Under Firewine Bridge|[Zobacz szczegóły](#q-90)|
 |The Kidnapping of Henning|[Zobacz szczegóły](#q-91)|
+|Dorn Il-Khan A Blackguard's Revennge|[Zobacz szczegóły](#q-92)|
+|Samuel and Lena|[Zobacz szczegóły](#q-93)|
+|Beneath the Plougshares|[Zobacz szczegóły](#q-94)|
+|Dreamheart|[Zobacz szczegóły](#q-95)|
+
+
+??? warning "Dreamheart"
+    - **Zleceniodawca:** Podczas jednego z noclegów.
+    - Sen wskazywał, że sprawy w ruinach nie zostały zakończone.
+    <div id="q-95"></div>
+
+??? warning "Beneath the Plougshares"
+    - **Zleceniodawca:** Rigaldo w Oku Gorgony  w Beregost.
+    - Mamy zdobyć dwa pierścienie jakie chce sprzedać Karp w Nashkel.
+    <div id="q-94"></div>
+
+??? success "Samuel and Lena"
+    - **Zleceniodawca:** Lena w Górach Bełkotków.
+    - Lena prosi nas o dostarczenie nieprzytomnego Samuela do Galleny w Pomocnej Dłoni.
+    - Oddaliśmy Samuela pod opiekę Galleny.
+    <div id="q-93"></div>
+
+??? warning "Dorn Il-Khan A Blackguard's Revennge"
+    - **Zleceniodawca:** Po zabiciu Kryll w Górach Bełkotków.
+    - Dorn chce dokończyć zemstę i dorwać Simeona.
+    <div id="q-92"></div>
 
 ??? warning "The Kidnapping of Henning"
     - **Zleceniodawca:** Po rozmowie Berrunem Ghastkillem n atemat porwania Henninga.
     - Musimy podążyć śladami orków.
-    <div id="q-90"></div>
+    <div id="q-91"></div>
 
 ??? warning "Warded Dungeon Under Firewine Bridge"
     - **Zleceniodawca:** Charleston Nib w starożytnych ruinach.
@@ -109,6 +135,8 @@
     - Poszukuje katany i chce abyśmy mu pomogli.
     - Mogłby ją zlokalizować ale ukradziono mu amulet, ktory trzeba odnaleźć.
     - Odnaleźliśmy amulet i trzeba nam wrocić do właściciela.
+    - Gallena z uzyciem amuletu w wizjach zobaczyła że katana jest złamana i dwie jej cześci znajdują się osobno.
+    - Obiecałem je odnaleźć.
     <div id="q-89"></div>
 
 ??? success "Elminster's Daughter"
@@ -136,10 +164,11 @@
     - Gdy ich znowu odwiedziliśmy, Noober był zdrowy i na stałe zamieszkam w tym domu.
     <div id="q-85"></div>
 
-??? warning "Vial of Mysterious Liquid"
+??? success "Vial of Mysterious Liquid"
     - **Zleceniodawca:** Burmistrz Nashkel
     - SUgeruje aby fiolkę dziwnej substancji znalezioną w kopalni przepadał kowal z Beregost.
     - Taerom w kużni w Beregost zabrał fiolkę i ma przekazać ją komuś do analizy.
+    - Gdy znowu go odwiedziliśmy poinformował nas, że udało się opracować proces odwracający działanie substancji i żelazo nie powinno już więcej być zagrożone.
     <div id="q-84"></div>
 
 ??? warning "The Serpents of Abbathor"
@@ -149,9 +178,10 @@
     - Nie udało nam się powstrzymać zasadzki na dwóch śledczych ale kolejny trop prowadzi do Podpiwnicza we Wrotach Baldura. Musimy szukać tam niejakiego Draglona.
     <div id="q-83"></div>
 
-??? warning "Confronting Tranzig"
+??? success "Confronting Tranzig"
     - **Zleceniodawca:** Po przeczytaniu listów do Mulahey'a
     - Musimy spotkać się z Tranzigiem w Beregoście, pośrednikiem z Tazokiem.
+    - Nie chciał współpracować ale wśród jego rzeczy znależliśmy list sugerujący jak odnaleźć obóz Tazoka.
     <div id="q-82"></div>
 
 ??? success "Kylee's Dagger"
@@ -409,9 +439,11 @@
     - Udało się przekonać Blackthorna do przyłączenia do gildii.
     <div id="q-44"></div>
 
-??? warning "Sorceress of Shadows"
+??? success "Sorceress of Shadows"
     - **Zleceniodawca:** Baldwin w Oku Gorgony.
     - Mamy odszukać odłamku magicznej laski. Na ją jakaś wiedźma gdzieś na Wzgórzach Bełkotków.
+    - I rzeczywiście musiliśmy ubić Deneb, która przywoływała węże i była w posiadaniu fragmentu artefaktu.
+    - Po powrocie do siedziby organizacji Baldwin był nam bardzo wdzięczny za dostarczenie magicznego przedmiotu.
     <div id="q-43"></div>
 
 ??? success "Liedel's Bounty: Aisha"

diff --git a/docs/other/npc.md b/docs/other/npc.md
@@ -306,7 +306,29 @@
 |Shandraha|BG4100|:material-check-circle:|nieszkodliwa borsukołaczka|
 |Laryssa|BG4100|:material-check-circle:|kuzynka Brage'a|
 |Brage|BG4100|:material-check-circle:|co przeklęty miecz w swe ręce wziął|
+|Hugnot|BG5500|:material-check-circle:|co nie przepada za smrodem orków|
+|Kryll|BG5500|:material-close-circle:|🪦 - ta co zdradziła Dorna|
+|Rick|BG5500|:material-close-circle:|🪦 - przez Kryll w szkielet zmieniony|
+|Shane|BG5500|:material-close-circle:|🪦 - przez Kryll w szkielet zmieniony|
+|Daryl|BG5500|:material-close-circle:|🪦 - przez Kryll w szkielet zmieniony|
+|Glenn|BG5500|:material-close-circle:|🪦 - przez Kryll w szkielet zmieniony|
+|Lori|BG5500|:material-close-circle:|🪦 - przez Kryll w szkielet zmieniony|
+|Hagar|BG5500|:material-close-circle:|🪦 - przez Kryll w szkielet zmieniony|
+|Deneb|BG5500|:material-close-circle:|🪦 - tymczasowa posiadaczka fragmentu Kerykeionu|
+|Hafiz bin Watat|BG5500|:material-check-circle:|współśniący|
+|Gandolar Luckyfoot|BG4000|:material-check-circle:|sołtys wioski niziołków|
+|Telben Beeswaxer|BG4000|:material-check-circle:|sadów opiekun|
+|Molkar|BG4000|:material-close-circle:|🪦 - kolejny niezdarny łowca głów|
+|Drakar|BG4000|:material-close-circle:|🪦 - kolejny niezdarny łowca głów|
+|Morvin|BG4000|:material-close-circle:|🪦 - kolejny niezdarny łowca głów|
+|Halacan|BG4000|:material-close-circle:|🪦 - kolejny niezdarny łowca głów|
+|Tranzig|BG3352|:material-close-circle:|🪦 - już Tazokowi wysługiwać się nie będzie|
+|Nim’a Furlwinga|BG2900|:material-check-circle:|zły psów opiekun|
 
+
+Knieja Larsa - BG2900
+Gullykin - BG4000
+Góry Bełkotków - BG5500
 Starożytne Ruiny - BG4100
 Las Pająków - BG3000
 Równina Ostrych Kłów - BG3500

diff --git a/docs/other/maps.md b/docs/other/maps.md
@@ -12,11 +12,14 @@
 | Dzicze Beregostu [14,44] | BG3800 | ![Dzicze Beregostu](../maps/BG3800.webp){ width="100" } |
 | Przełęcz Nashkel [15,21,45] | BG4300 | ![Przełęcz Nashkel](../maps/BG4300.webp){ width="100" } |
 | Ustronne Jezioro [16] | BG4200 | ![Przełęcz Nashkel](../maps/BG4200.webp){ width="100" } |
-| Nashkel [20,27,34] | BG4800 | ![Nashkel](../maps/BG4800.webp){ width="100" } |
+| Nashkel [20,27,34,48] | BG4800 | ![Nashkel](../maps/BG4800.webp){ width="100" } |
 | Jarmark w Nashkel [28] | BG4900 | ![Jarmark w Nashkel](../maps/BG4900.webp){ width="100" } |
 | Kopalnia Nashkel [31,33] | BG5400 | ![Kopalnia Nashkel](../maps/BG5400.webp){ width="100" } |
 | Dolina Grobowców [32] | BG5000 | ![Kopalnia Nashkel](../maps/BG5000.webp){ width="100" } |
 | Równina Ostrych Kłów [39] | BG3500 | ![Kopalnia Nashkel](../maps/BG3500.webp){ width="100" } |
 | Las Pająków [40] | BG3000 | ![Las Pająków](../maps/BG3000.webp){ width="100" } |
-| Starożytne Ruiny [47] | BG3000 | ![Starożytne Ruiny](../maps/BG4100.webp){ width="100" } |
+| Starożytne Ruiny [47] | BG4100 | ![Starożytne Ruiny](../maps/BG4100.webp){ width="100" } |
+| Góry Bełkotków [49] | BG5500 | ![Góry Bełkotków](../maps/BG5500.webp){ width="100" } |
+| Gullykin [50] | BG4000 | ![Gullykin](../maps/BG4000.webp){ width="100" } |
+| Knieja Larsa [53] | BG4000 | ![Gullykin](../maps/BG2900.webp){ width="100" } |
 
